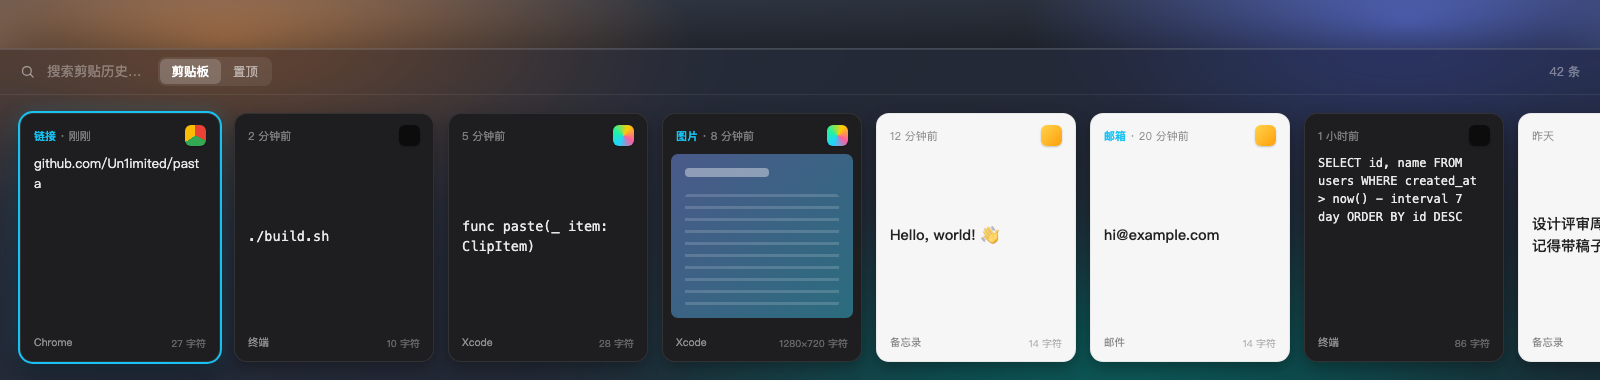
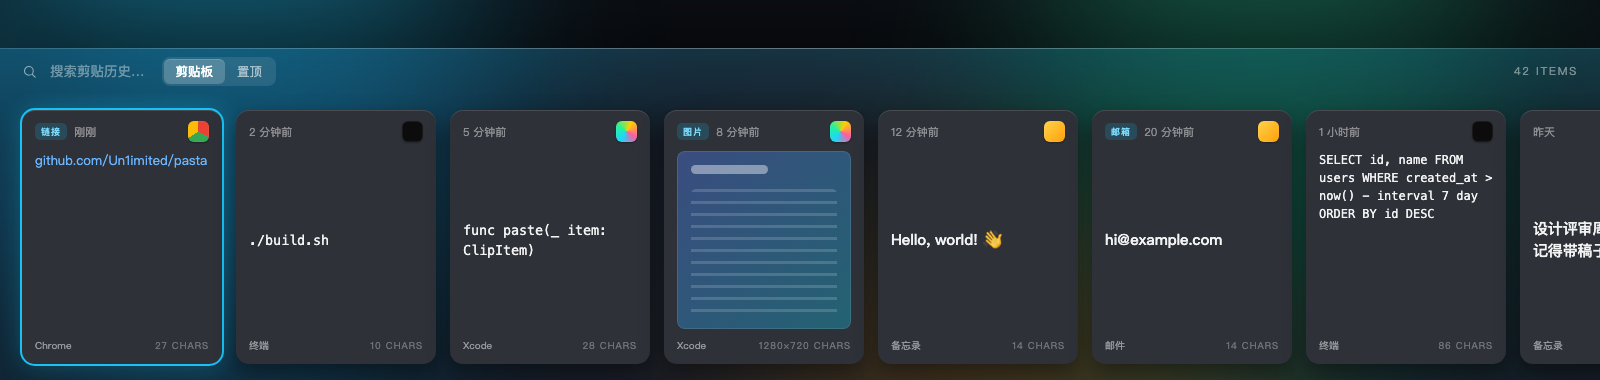
docs: 重渲 README 封面图，匹配提亮后界面 (#2)
统一亮卡 + 通透磨砂 + 顶部品牌青光，替换旧的偏深版封面。

diff --git a/_design/hero.html b/_design/hero.html
@@ -1,79 +1,86 @@
 <!DOCTYPE html>
 <html lang="zh-CN"><head><meta charset="UTF-8"><style>
  *{margin:0;padding:0;box-sizing:border-box;}
- :root{--font:-apple-system,"SF Pro Text","PingFang SC",system-ui,sans-serif;--mono:ui-monospace,"SF Mono",Menlo,monospace;--sel:#18c3f4;}
+ :root{--font:-apple-system,"SF Pro Text","SF Pro Display","PingFang SC",system-ui,sans-serif;--mono:ui-monospace,"SF Mono",Menlo,monospace;--sel:#18c3f4;}
  html,body{width:1600px;height:380px;overflow:hidden;}
- body{font-family:var(--font);
-   background:
-     radial-gradient(70% 80% at 14% 10%, #c98a5a 0%, transparent 42%),
-     radial-gradient(60% 80% at 88% 6%, #5a6fd0 0%, transparent 40%),
-     radial-gradient(80% 90% at 70% 100%, #239b92 0%, transparent 46%),
-     linear-gradient(160deg,#39414f,#20232e);}
+ body{font-family:var(--font);background:#0c0f14;position:relative;}
+ /* 桌面色：让磨砂透出一点品牌青/翠/暖 */
+ .orb{position:absolute;border-radius:50%;filter:blur(90px);}
+ .o1{width:520px;height:520px;left:-40px;top:-170px;background:#1aa0c8;opacity:0.5;}
+ .o2{width:480px;height:480px;right:6%;top:-150px;background:#22b083;opacity:0.42;}
+ .o3{width:560px;height:420px;left:46%;bottom:-250px;background:#d79a3a;opacity:0.3;}
+
  .shelf{position:absolute;left:0;right:0;bottom:0;height:332px;display:flex;flex-direction:column;
-   background:rgba(28,28,32,0.46);-webkit-backdrop-filter:blur(60px) saturate(165%);backdrop-filter:blur(60px) saturate(165%);
-   border-top:0.5px solid rgba(255,255,255,0.14);box-shadow:0 -22px 60px rgba(0,0,0,0.45);}
- .shelf::before{content:"";position:absolute;left:0;right:0;top:0;height:1px;background:rgba(255,255,255,0.12);}
- .toolbar{height:46px;display:flex;align-items:center;gap:12px;padding:0 20px;border-bottom:0.5px solid rgba(255,255,255,0.08);}
- .mag{width:15px;height:15px;color:rgba(255,255,255,0.5);}
- .ph{font-size:13.5px;color:rgba(255,255,255,0.34);}
- .seg{display:flex;background:rgba(255,255,255,0.08);border-radius:8px;padding:2px;margin-left:4px;}
- .seg span{font-size:12.5px;color:rgba(255,255,255,0.55);padding:4px 12px;border-radius:6px;}
- .seg span.on{color:#fff;background:rgba(255,255,255,0.18);font-weight:500;}
- .grow{flex:1;}.count{font-size:12px;color:rgba(255,255,255,0.4);}
- .strip{flex:1;display:flex;gap:14px;padding:18px 20px;overflow:hidden;}
- .card{flex:0 0 200px;width:200px;border-radius:13px;overflow:hidden;display:flex;flex-direction:column;box-shadow:0 6px 16px rgba(0,0,0,0.3);}
- .card.dark{background:#1e1e20;color:#fff;border:0.5px solid rgba(255,255,255,0.09);}
- .card.light{background:#f6f6f7;color:#1c1c1e;border:0.5px solid rgba(0,0,0,0.05);}
- .card.sel{box-shadow:0 0 0 2px var(--sel),0 10px 24px rgba(0,0,0,0.42),0 0 22px rgba(24,195,244,0.22);}
+   background:rgba(38,43,54,0.42);-webkit-backdrop-filter:blur(52px) saturate(185%);backdrop-filter:blur(52px) saturate(185%);
+   box-shadow:inset 0 1px 0 rgba(255,255,255,0.16),0 -28px 70px rgba(0,0,0,0.5);}
+ .shelf::before{content:"";position:absolute;left:0;right:0;top:0;height:96px;
+   background:linear-gradient(180deg,rgba(24,195,244,0.14),transparent);pointer-events:none;}
+ .shelf::after{content:"";position:absolute;left:0;right:0;top:0;height:1px;
+   background:linear-gradient(90deg,transparent,rgba(255,255,255,0.22),transparent);}
+
+ .toolbar{height:46px;display:flex;align-items:center;gap:13px;padding:0 22px;position:relative;z-index:2;}
+ .mag{width:15px;height:15px;color:rgba(255,255,255,0.55);}
+ .ph{font-size:13.5px;color:rgba(255,255,255,0.4);}
+ .seg{display:flex;background:rgba(255,255,255,0.1);border-radius:8px;padding:2px;margin-left:4px;}
+ .seg span{font-size:12.5px;color:rgba(255,255,255,0.6);padding:4px 12px;border-radius:6px;}
+ .seg span.on{color:#fff;background:rgba(255,255,255,0.2);box-shadow:inset 0 1px 0 rgba(255,255,255,0.16);font-weight:500;}
+ .grow{flex:1;}.count{font-size:11px;color:rgba(255,255,255,0.45);text-transform:uppercase;letter-spacing:0.16em;}
+
+ .strip{flex:1;display:flex;gap:14px;padding:16px 22px;overflow:hidden;position:relative;z-index:2;}
+
+ /* 统一提亮卡片 */
+ .card{flex:0 0 200px;width:200px;border-radius:13px;display:flex;flex-direction:column;overflow:hidden;
+   background:#2e3138;box-shadow:inset 0 1px 0 rgba(255,255,255,0.13),0 9px 22px rgba(0,0,0,0.4);color:#fff;}
+ .card.sel{box-shadow:inset 0 1px 0 rgba(255,255,255,0.13),0 0 0 2px var(--sel),0 0 26px rgba(24,195,244,0.3);}
+
  .head{display:flex;align-items:center;gap:8px;padding:11px 13px 0;}
- .head .meta{flex:1;min-width:0;font-size:11px;}
- .dark .meta{color:rgba(255,255,255,0.42);}.light .meta{color:rgba(0,0,0,0.42);}
- .meta .kind{color:var(--sel);font-weight:600;}
- .badge{width:21px;height:21px;border-radius:6px;flex:0 0 auto;box-shadow:0 1px 2px rgba(0,0,0,0.22);}
+ .head .meta{flex:1;min-width:0;display:flex;align-items:center;gap:7px;font-size:11px;color:rgba(255,255,255,0.46);}
+ .kind{font-size:9px;font-weight:600;text-transform:uppercase;letter-spacing:0.12em;padding:2px 6px;border-radius:5px;background:rgba(24,195,244,0.18);color:#7fdcff;}
+ .badge{width:21px;height:21px;border-radius:6px;flex:0 0 auto;box-shadow:0 1px 2px rgba(0,0,0,0.3),inset 0 0 0 0.5px rgba(255,255,255,0.12);}
  .badge.pc{background:conic-gradient(from 210deg,#21d4fd,#21f3a0,#ffce00,#ff5ca0,#21d4fd);}
  .badge.term{background:#0c0c0c;}.badge.chrome{background:conic-gradient(#ea4335 0 33%,#34a853 0 66%,#fbbc05 0 100%);}
  .badge.note{background:linear-gradient(135deg,#ffd34a,#ff9f0a);}
- .body{flex:1;display:flex;padding:8px 13px;overflow:hidden;}
+
+ .body{flex:1;display:flex;padding:9px 13px;overflow:hidden;}
  .body.short{align-items:center;}.body.long{align-items:flex-start;}
- .txt{font-size:13px;line-height:1.5;word-break:break-word;width:100%;display:-webkit-box;-webkit-line-clamp:6;-webkit-box-orient:vertical;overflow:hidden;}
- .body.short .txt{font-size:14.5px;font-weight:500;}
- .dark .txt{color:rgba(255,255,255,0.9);}.light .txt{color:rgba(0,0,0,0.86);}
+ .txt{font-size:13px;line-height:1.5;width:100%;word-break:break-word;color:rgba(255,255,255,0.94);display:-webkit-box;-webkit-line-clamp:6;-webkit-box-orient:vertical;overflow:hidden;}
+ .body.short .txt{font-size:15px;font-weight:500;letter-spacing:-0.01em;}
  .txt.mono{font-family:var(--mono);font-size:12px;}.body.short .txt.mono{font-size:13.5px;}
- .link{color:#5aa0ff;}.light .link{color:#3478f6;}
- .imgwrap{width:100%;height:100%;border-radius:7px;overflow:hidden;position:relative;
-   background:linear-gradient(135deg,#4a5a8a,#2b6c7e);}
- .imgwrap::after{content:"";position:absolute;left:14px;right:14px;bottom:12px;top:40px;border-radius:4px;
-   background:repeating-linear-gradient(180deg,rgba(255,255,255,0.16) 0 3px,transparent 3px 12px);}
- .imgwrap::before{content:"";position:absolute;left:14px;top:14px;width:46%;height:9px;border-radius:4px;background:rgba(255,255,255,0.4);}
- .foot{display:flex;align-items:center;justify-content:space-between;padding:9px 13px 11px;}
- .foot .src{font-size:10.5px;}.dark .src{color:rgba(255,255,255,0.5);}.light .src{color:rgba(0,0,0,0.5);}
- .foot .cnt{font-size:10px;}.dark .cnt{color:rgba(255,255,255,0.32);}.light .cnt{color:rgba(0,0,0,0.32);}
+ .link{color:#6cb6ff;}
+ .imgwrap{width:100%;height:100%;border-radius:8px;overflow:hidden;position:relative;background:linear-gradient(135deg,#3a4d80,#236272);box-shadow:inset 0 0 0 1px rgba(255,255,255,0.1);}
+ .imgwrap::before{content:"";position:absolute;left:14px;top:14px;width:44%;height:9px;border-radius:5px;background:rgba(255,255,255,0.42);}
+ .imgwrap::after{content:"";position:absolute;left:14px;right:14px;top:38px;bottom:12px;border-radius:5px;background:repeating-linear-gradient(180deg,rgba(255,255,255,0.16) 0 3px,transparent 3px 12px);}
+
+ .foot{display:flex;align-items:center;justify-content:space-between;padding:0 13px 12px;font-variant-numeric:tabular-nums;}
+ .src{font-size:10px;color:rgba(255,255,255,0.5);}
+ .cnt{font-size:9.5px;color:rgba(255,255,255,0.32);text-transform:uppercase;letter-spacing:0.1em;}
 </style></head><body>
+ <div class="orb o1"></div><div class="orb o2"></div><div class="orb o3"></div>
  <div class="shelf">
    <div class="toolbar">
-     <svg class="mag" viewBox="0 0 24 24" fill="none" stroke="currentColor" stroke-width="2" stroke-linecap="round"><circle cx="11" cy="11" r="7"/><line x1="16.5" y1="16.5" x2="21" y2="21"/></svg>
+     <svg class="mag" viewBox="0 0 24 24" fill="none" stroke="currentColor" stroke-width="1.7" stroke-linecap="round"><circle cx="11" cy="11" r="7"/><line x1="16.5" y1="16.5" x2="21" y2="21"/></svg>
      <span class="ph">搜索剪贴历史…</span>
      <span class="seg"><span class="on">剪贴板</span><span>置顶</span></span>
-     <span class="grow"></span><span class="count">42 条</span>
+     <span class="grow"></span><span class="count">42 items</span>
    </div>
    <div class="strip" id="strip"></div>
  </div>
 <script>
 const cards=[
- {tone:'dark',sel:1,kind:'链接',time:'刚刚',badge:'chrome',long:1,link:1,txt:'github.com/Un1imited/pasta',src:'Chrome',cnt:'27'},
- {tone:'dark',time:'2 分钟前',badge:'term',mono:1,txt:'./build.sh',src:'终端',cnt:'10'},
- {tone:'dark',time:'5 分钟前',badge:'pc',mono:1,txt:'func paste(_ item: ClipItem)',src:'Xcode',cnt:'28'},
- {tone:'dark',kind:'图片',time:'8 分钟前',badge:'pc',img:1,src:'Xcode',cnt:'1280×720'},
- {tone:'light',time:'12 分钟前',txt:'Hello, world! 👋',src:'备忘录',badge:'note',cnt:'14'},
- {tone:'light',kind:'邮箱',time:'20 分钟前',txt:'[email redacted]',src:'邮件',badge:'note',cnt:'14'},
- {tone:'dark',time:'1 小时前',mono:1,long:1,txt:'SELECT id, name FROM users WHERE created_at > now() - interval 7 day ORDER BY id DESC',src:'终端',badge:'term',cnt:'86'},
- {tone:'light',time:'昨天',txt:'设计评审周四下午 3 点，记得带稿子',src:'备忘录',badge:'note',cnt:'18'},
+ {sel:1,kind:'链接',time:'刚刚',badge:'chrome',long:1,link:1,txt:'github.com/Un1imited/pasta',src:'Chrome',cnt:'27'},
+ {time:'2 分钟前',badge:'term',mono:1,txt:'./build.sh',src:'终端',cnt:'10'},
+ {time:'5 分钟前',badge:'pc',mono:1,txt:'func paste(_ item: ClipItem)',src:'Xcode',cnt:'28'},
+ {kind:'图片',time:'8 分钟前',badge:'pc',img:1,src:'Xcode',cnt:'1280×720'},
+ {time:'12 分钟前',badge:'note',txt:'Hello, world! 👋',src:'备忘录',cnt:'14'},
+ {kind:'邮箱',time:'20 分钟前',badge:'note',txt:'[email redacted]',src:'邮件',cnt:'14'},
+ {time:'1 小时前',badge:'term',mono:1,long:1,txt:'SELECT id, name FROM users WHERE created_at > now() - interval 7 day ORDER BY id DESC',src:'终端',cnt:'86'},
+ {time:'昨天',badge:'note',txt:'设计评审周四下午 3 点，记得带稿子',src:'备忘录',cnt:'18'},
 ];
 document.getElementById('strip').innerHTML=cards.map(c=>{
- const meta=c.kind?`<span class="kind">${c.kind}</span> · ${c.time}`:c.time;
- const body=c.img?'<div class="body short" style="padding:8px"><div class="imgwrap"></div></div>'
+ const meta=`${c.kind?`<span class="kind">${c.kind}</span>`:''}<span>${c.time}</span>`;
+ const body=c.img?'<div class="body short"><div class="imgwrap"></div></div>'
    :`<div class="body ${c.long?'long':'short'}"><div class="txt ${c.mono?'mono':''} ${c.link?'link':''}">${c.txt}</div></div>`;
- return `<div class="card ${c.tone} ${c.sel?'sel':''}"><div class="head"><span class="meta">${meta}</span><span class="badge ${c.badge}"></span></div>${body}<div class="foot"><span class="src">${c.src}</span><span class="cnt">${c.cnt} 字符</span></div></div>`;
+ return `<div class="card ${c.sel?'sel':''}"><div class="head"><span class="meta">${meta}</span><span class="badge ${c.badge}"></span></div>${body}<div class="foot"><span class="src">${c.src}</span><span class="cnt">${c.cnt} chars</span></div></div>`;
 }).join('');
 </script>
 </body></html>